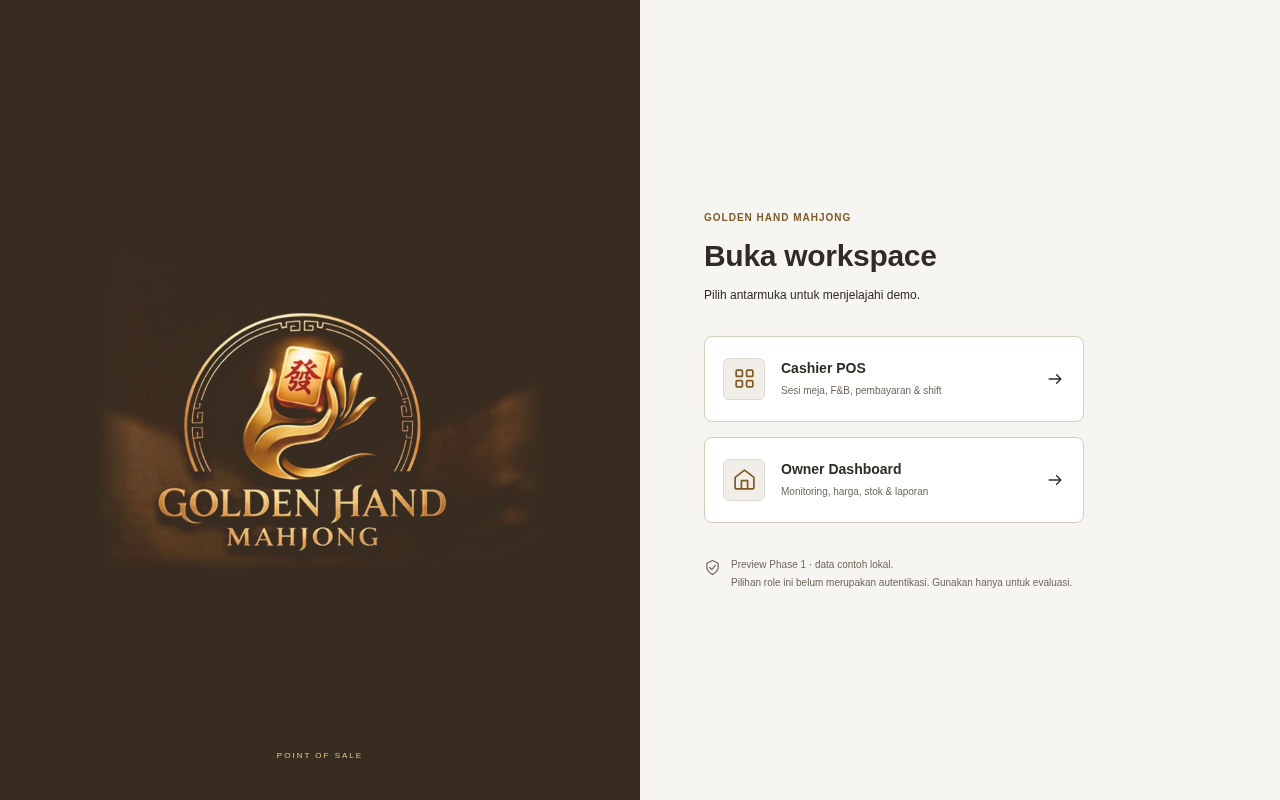
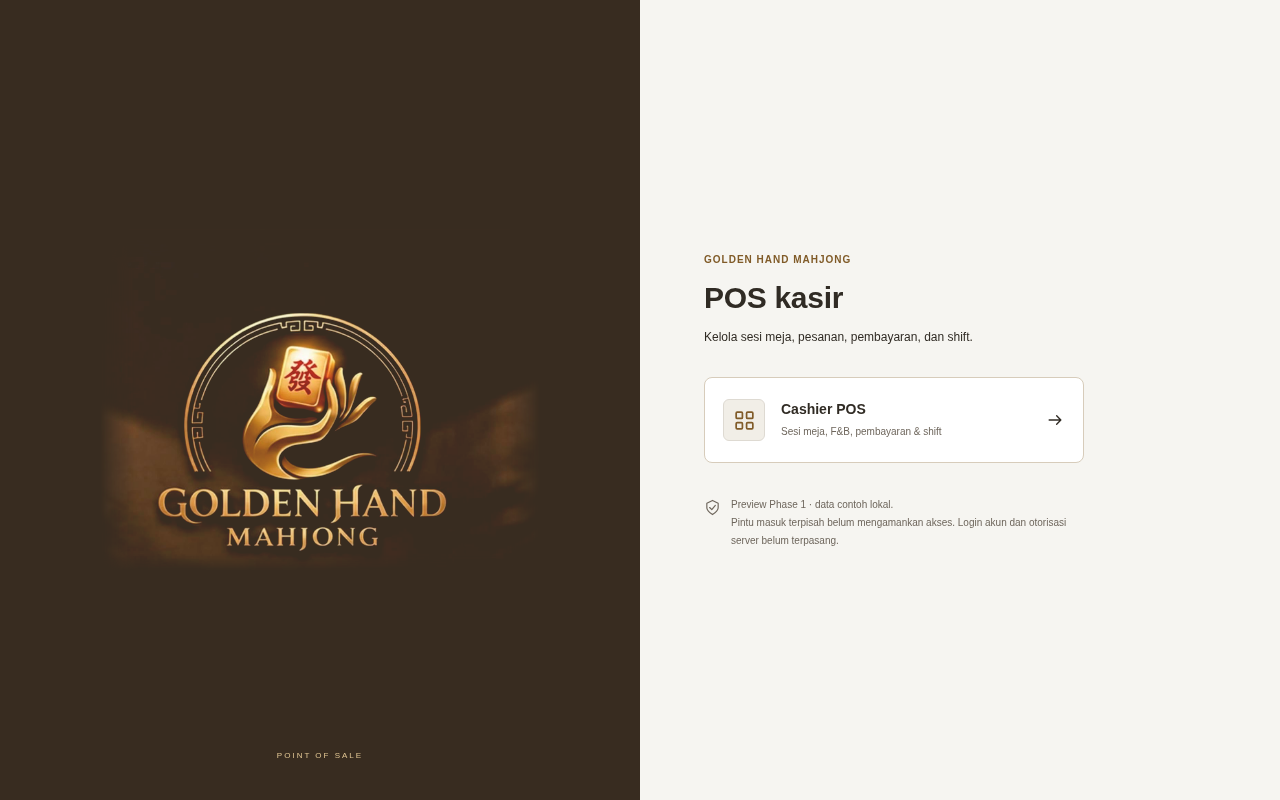
Separate cashier and owner demo entry points
Use /pos for the cashier tablet and /admin for owner pricing, inventory and reports. Remove role switching and cashier reset controls. Scope demo sessions and logout to each portal, without granting roles from URL/history navigation.

Verify owner price updates in the separate cashier menu. Update documentation and previews; build, lint, 27 domain tests and 24 browser checks pass. Real authentication and cross-device synchronization remain Phase 2 work.

Changed region(s): [[0.5312, 0.3125, 0.8438, 0.75], [0.5625, 0.25, 0.6562, 0.2812]]

diff --git a/apps/web/src/App.tsx b/apps/web/src/App.tsx
@@ -3,6 +3,7 @@ import type { ReactNode } from 'react';
 import { date, openShift, time } from '../../../packages/domain/index.ts';
 import type { Action, Role } from '../../../packages/domain/index.ts';
 import { downloadData, useDemoStore } from './data/store.ts';
+import { enterDemoPortal, leaveDemoPortal, portalFromPath, portalPaths, readDemoRole } from './data/demoAccess.ts';
 import { Brand, Empty, Icon } from './components/ui.tsx';
 import { Dialogs } from './components/dialogs.tsx';
 import type { Dialog } from './components/dialogs.tsx';
@@ -10,17 +11,11 @@ import { Cashier } from './features/cashier/Cashier.tsx';
 import { Owner } from './features/owner/Owner.tsx';
 const cashierNav = [{ id: 'tables', label: 'Meja & sesi', icon: 'tables' }, { id: 'menu', label: 'Food & beverage', icon: 'coffee' }, { id: 'transactions', label: 'Transaksi & shift', icon: 'receipt' }];
 const ownerNav = [{ id: 'overview', label: 'Overview', icon: 'overview' }, { id: 'tables', label: 'Monitoring meja', icon: 'tables' }, { id: 'reports', label: 'Laporan penjualan', icon: 'chart' }, { id: 'catalog', label: 'Katalog & stok', icon: 'inventory' }, { id: 'pricing', label: 'Tarif meja', icon: 'wallet' }, { id: 'approvals', label: 'Refund & void', icon: 'shield' }, { id: 'staff', label: 'Staf & shift', icon: 'staff' }, { id: 'audit', label: 'Audit trail', icon: 'history' }];
-function storedRole(): Role | null { try {
-    const v = sessionStorage.getItem('golden-hand-demo-role');
-    return v === 'cashier' || v === 'owner' ? v : null;
-}
-catch {
-    return null;
-} }
 export default function App() {
     const store = useDemoStore();
-    const [role, setRole] = useState<Role | null>(storedRole);
-    const [view, setView] = useState(storedRole() === 'owner' ? 'overview' : 'tables');
+    const [portal, setPortal] = useState<Role>(() => portalFromPath(window.location.pathname));
+    const [role, setRole] = useState<Role | null>(() => readDemoRole(portalFromPath(window.location.pathname)));
+    const [view, setView] = useState(portalFromPath(window.location.pathname) === 'owner' ? 'overview' : 'tables');
     const [selected, setSelected] = useState(1);
     const [dialog, setDialog] = useState<Dialog | null>(null);
     const [now, setNow] = useState(Date.now());
@@ -40,40 +35,40 @@ export default function App() {
     useEffect(() => { if (!toast)
         return; const timeout = setTimeout(() => setToast(null), 5000); return () => clearTimeout(timeout); }, [toast]);
     useEffect(() => {
+        const initial = portalFromPath(window.location.pathname);
+        window.history.replaceState({}, '', portalPaths[initial]);
         const pop = () => {
-            const next: Role | null = window.location.pathname === '/admin' ? 'owner' : window.location.pathname === '/pos' ? 'cashier' : null;
-            try {
-                if (next)
-                    sessionStorage.setItem('golden-hand-demo-role', next);
-                else
-                    sessionStorage.removeItem('golden-hand-demo-role');
-            }
-            catch { /* Demo can still run without session persistence. */ }
-            setRole(next);
+            const next = portalFromPath(window.location.pathname);
+            window.history.replaceState({}, '', portalPaths[next]);
+            setPortal(next);
+            setRole(readDemoRole(next));
             setView(next === 'owner' ? 'overview' : 'tables');
             setDialog(null);
+            setNavOpen(false);
+            setToast(null);
         };
         window.addEventListener('popstate', pop);
         return () => window.removeEventListener('popstate', pop);
     }, []);
-    function enter(next: Role) {
-        setRole(next);
-        setView(next === 'owner' ? 'overview' : 'tables');
+    function enter() {
+        setRole(portal);
+        setView(portal === 'owner' ? 'overview' : 'tables');
         setNavOpen(false);
         setDialog(null);
-        try {
-            sessionStorage.setItem('golden-hand-demo-role', next);
-        }
-        catch { /* Nonpersistent preview. */ }
-        window.history.pushState({}, '', next === 'owner' ? '/admin' : '/pos');
+        enterDemoPortal(portal);
+        window.history.replaceState({}, '', portalPaths[portal]);
         window.scrollTo({ top: 0 });
     }
-    function logout() { try {
-        sessionStorage.removeItem('golden-hand-demo-role');
+    function logout() {
+        leaveDemoPortal(portal);
+        setRole(null);
+        setDialog(null);
+        setNavOpen(false);
+        setToast(null);
+        window.scrollTo({ top: 0 });
     }
-    catch { /* Nonpersistent preview. */ } setRole(null); setDialog(null); window.history.pushState({}, '', '/'); }
-    function act(a: Action) { if (!role)
-        throw new Error('Pilih role demo terlebih dahulu.'); store.dispatch(a, role); setToast({ text: a.type === 'payment' && a.method === 'cash' ? `Tunai ${new Intl.NumberFormat('id-ID').format(a.amount)} dicatat · kembalian ${new Intl.NumberFormat('id-ID').format(a.tendered - a.amount)}` : 'Perubahan demo berhasil disimpan.', error: false }); }
+    function act(a: Action) { if (!role || role !== portal)
+        throw new Error('Buka demo sesuai pintu masuk terlebih dahulu.'); store.dispatch(a, role); setToast({ text: a.type === 'payment' && a.method === 'cash' ? `Tunai ${new Intl.NumberFormat('id-ID').format(a.amount)} dicatat · kembalian ${new Intl.NumberFormat('id-ID').format(a.tendered - a.amount)}` : 'Perubahan demo berhasil disimpan.', error: false }); }
     function safeAction(a: Action) { try {
         act(a);
     }
@@ -89,14 +84,14 @@ export default function App() {
         <div className="button-row">
         <button className="button" onClick={downloadData}>Ekspor data tersimpan</button>
         <button className="button primary" onClick={() => window.location.reload()}>Coba lagi</button>
-        <button className="button danger" onClick={() => { if (window.confirm('Hapus data demo browser ini dan buat ulang data contoh? Ekspor backup terlebih dahulu.')) {
+        {portal === 'owner' && <button className="button danger" onClick={() => { if (window.confirm('Hapus data demo browser ini dan buat ulang data contoh? Ekspor backup terlebih dahulu.')) {
             try {
                 store.reset();
             }
             catch (e) {
                 setToast({ text: e instanceof Error ? e.message : 'Penyimpanan tidak tersedia.', error: true });
             }
-        } }}>Reset data demo</button>
+        } }}>Reset data demo</button>}
         </div>
         </Empty>{toast && <p role="alert">{toast.text}</p>}</div>;
     if (!store.state)
@@ -115,32 +110,22 @@ export default function App() {
         <div className="login-panel">
         <div className="login-panel-copy">
         <span className="eyebrow">GOLDEN HAND MAHJONG</span>
-        <h2>Buka workspace</h2>
-        <p>Pilih antarmuka untuk menjelajahi demo.</p>
+        <h2>{portal === 'owner' ? 'Panel owner' : 'POS kasir'}</h2>
+        <p>{portal === 'owner' ? 'Kelola tarif meja, harga produk, stok, dan laporan.' : 'Kelola sesi meja, pesanan, pembayaran, dan shift.'}</p>
         </div>
-        <button className="login-role" onClick={() => enter('cashier')}>
+        <button className="login-role" onClick={enter} aria-labelledby="portal-name" aria-describedby="portal-description">
         <span className="role-icon">
-        <Icon name="tables" size={25}/>
+        <Icon name={portal === 'owner' ? 'overview' : 'tables'} size={25}/>
         </span>
         <span>
-        <strong>Cashier POS</strong>
-        <small>Sesi meja, F&B, pembayaran & shift</small>
-        </span>
-        <Icon name="arrow"/>
-        </button>
-        <button className="login-role" onClick={() => enter('owner')}>
-        <span className="role-icon">
-        <Icon name="overview" size={25}/>
-        </span>
-        <span>
-        <strong>Owner Dashboard</strong>
-        <small>Monitoring, harga, stok & laporan</small>
+        <strong id="portal-name">{portal === 'owner' ? 'Owner Dashboard' : 'Cashier POS'}</strong>
+        <small id="portal-description">{portal === 'owner' ? 'Monitoring, harga, stok & laporan' : 'Sesi meja, F&B, pembayaran & shift'}</small>
         </span>
         <Icon name="arrow"/>
         </button>
         <div className="login-demo-note">
         <Icon name="shield" size={17}/>
-        <p>Preview Phase 1 · data contoh lokal.<br />Pilihan role ini belum merupakan autentikasi. Gunakan hanya untuk evaluasi.</p>
+        <p>Preview Phase 1 · data contoh lokal.<br />Pintu masuk terpisah belum mengamankan akses. Login akun dan otorisasi server belum terpasang.</p>
         </div>
         </div>
         </div>;
@@ -166,11 +151,8 @@ export default function App() {
     <strong>Demo workspace</strong>
     <small>Data lokal · Phase 1</small>
     </div>
-    <button className="sidebar-tool" onClick={() => enter(role === 'owner' ? 'cashier' : 'owner')}>
-    <Icon name={role === 'owner' ? 'tables' : 'crown'} size={16}/>{role === 'owner' ? 'Buka demo kasir' : 'Buka demo owner'}<Icon name="arrow" size={14}/>
-    </button>
-    <button className="sidebar-tool" onClick={() => setDialog({ kind: 'reset' })}>
-    <Icon name="history" size={16}/>Reset demo</button>
+    {role === 'owner' && <button className="sidebar-tool" onClick={() => setDialog({ kind: 'reset' })}>
+    <Icon name="history" size={16}/>Reset demo</button>}
     <div className="profile">
     <span className="profile-avatar">{role === 'owner' ? 'GH' : 'RP'}</span>
     <div>
@@ -208,7 +190,7 @@ export default function App() {
     <span>GOLDEN HAND MAHJONG</span>
     <span>Phase 1 preview · penyimpanan lokal</span>
     </footer>
-    </div>{dialog && <Dialogs key={`${dialog.kind}-${dialog.tableId}-${dialog.productId}-${dialog.staffId}`} dialog={dialog} state={state} now={now} onClose={() => setDialog(null)} onAction={act} onReset={() => { store.reset(); setToast({ text: 'Data contoh dipulihkan.', error: false }); }}/>} {toast && <div className={`toast ${toast.error ? 'error' : ''}`} role={toast.error ? 'alert' : 'status'}>
+    </div>{dialog && <Dialogs key={`${dialog.kind}-${dialog.tableId}-${dialog.productId}-${dialog.staffId}`} dialog={dialog} state={state} now={now} onClose={() => setDialog(null)} onAction={act} onReset={() => { if (role !== 'owner') throw new Error('Reset demo hanya tersedia untuk owner.'); store.reset(); setToast({ text: 'Data contoh dipulihkan.', error: false }); }}/>} {toast && <div className={`toast ${toast.error ? 'error' : ''}`} role={toast.error ? 'alert' : 'status'}>
         <Icon name={toast.error ? 'alert' : 'check'}/>
         <span>{toast.text}</span>
         <button aria-label="Tutup pesan" className="icon-button" onClick={() => setToast(null)}>

diff --git a/apps/web/src/data/demoAccess.ts b/apps/web/src/data/demoAccess.ts
@@ -1,0 +1,32 @@
+import type { Role } from '../../../../packages/domain/index.ts';
+
+// Separate demo entry points. These helpers do not authenticate a real staff member.
+export const portalPaths: Record<Role, string> = { cashier: '/pos', owner: '/admin' };
+
+export function portalFromPath(path: string): Role {
+    return path.replace(/\/$/, '') === portalPaths.owner ? 'owner' : 'cashier';
+}
+
+function sessionKey(portal: Role): string {
+    return `golden-hand-demo-role-${portal}`;
+}
+
+export function readDemoRole(portal: Role): Role | null {
+    try {
+        return sessionStorage.getItem(sessionKey(portal)) === portal ? portal : null;
+    } catch {
+        return null;
+    }
+}
+
+export function enterDemoPortal(portal: Role): void {
+    try {
+        sessionStorage.setItem(sessionKey(portal), portal);
+    } catch { /* Allow a nonpersistent demo when session storage is unavailable. */ }
+}
+
+export function leaveDemoPortal(portal: Role): void {
+    try {
+        sessionStorage.removeItem(sessionKey(portal));
+    } catch { /* The visible session still ends if session storage is unavailable. */ }
+}

diff --git a/apps/web/public/sw.js b/apps/web/public/sw.js
@@ -1,5 +1,5 @@
 // Cache only the static shell. Demo transactions live in localStorage, never in this cache.
-const CACHE = 'golden-hand-shell-v2';
+const CACHE = 'golden-hand-shell-v3';
 const SHELL = ['/', '/brand/golden-hand-original.jpg', '/manifest.webmanifest'];
 self.addEventListener('install', event => {
   event.waitUntil((async () => {

diff --git a/README.md b/README.md
@@ -2,7 +2,7 @@
 
 Phase 1 frontend for a five-table Mahjong lounge. React + TypeScript, light surfaces and restrained bronze accents, responsive cashier and owner interfaces, and the supplied original brand image.
 
-**Status: working frontend DEMO, not a production POS.** Data lives in this browser's localStorage. Role selection is a preview feature, not authentication. Do not use real customer data or transactions. No backend, payment gateway, production credentials, or deployment is configured.
+**Status: working frontend DEMO, not a production POS.** Data lives in this browser's localStorage. Separate entry confirmations are preview features, not authentication. Do not use real customer data or transactions. No backend, payment gateway, production credentials, or deployment is configured.
 
 Development repository: **[Ndoaivi/golden-hand-pos](https://github.com/Ndoaivi/golden-hand-pos)**. The original [Ndoaivi/mahjong-pos](https://github.com/Ndoaivi/mahjong-pos) is strictly read-only.
 
@@ -15,7 +15,7 @@ npm ci
 npm run dev
 ```
 
-Open the displayed local URL and select **Cashier POS** or **Owner Dashboard**. `/pos` and `/admin` are frontend routes; they do not provide authorization. A fresh tab shows the demo role chooser. The preview switch in the sidebar makes role testing convenient.
+Open **`/pos`** on the cashier tablet (the root URL defaults here), or **`/admin`** on the owner device. Each entry shows only its corresponding demo confirmation. There is no owner switch in the cashier UI and no cashier switch in the owner UI. Logout stays at that portal; per-portal demo sessions cannot authorize the other entry, including browser history navigation. These are frontend routes and do not provide real authorization. Anyone can manually visit the owner URL until production authentication is implemented.
 
 ```sh
 npm run build
@@ -37,7 +37,9 @@ The build is written to `apps/web/dist`. The service worker is enabled only in t
 
 QRIS/transfer buttons are clearly labelled **demo**. They do not initiate payments, display a real QR, contact a gateway, or verify a bank transaction. Approval decisions change demo status only, without ledger or inventory reversal. Staff profiles do not create Supabase users or grant real access.
 
-Cashier screens contain no price, HPP, rate, inventory-adjustment, staff, or business-setting editors. Shared demo action rules also reject cashier configuration edits. These browser checks are not a substitute for server-enforced RBAC.
+Owner adjusts the shared table rate under **Tarif meja**, and each product selling price/HPP under **Katalog & stok → Edit harga**. Changes apply to new sessions/orders; existing charge snapshots remain unchanged.
+
+Cashier screens contain no price, HPP, rate, inventory-adjustment, staff, reset, or business-setting editors. Shared demo action rules also reject cashier configuration edits. These browser checks are not a substitute for server-enforced RBAC.
 
 ## Structure
 
@@ -49,7 +51,7 @@ apps/
     src/components/               Brand, controls, focus-managed dialogs
     src/features/cashier/         Cashier POS
     src/features/owner/           Owner dashboard
-    src/data/                     Demo persistence / cross-tab updates
+    src/data/                     Demo persistence, portal sessions / cross-tab updates
     src/styles.css                Light responsive design system
   api/README.md                   Reserved Cloudflare Workers boundary
 packages/domain/                 Typed shared rules, fixtures and validators
@@ -72,10 +74,10 @@ npm run test:e2e
 
 The browser suite serves the built files on a temporary localhost port, launches Chromium, tests the main workflows and viewport sizes, then closes the server. It does not deploy anything. By default it uses `/usr/bin/chromium`; set `PLAYWRIGHT_CHROMIUM_PATH` to a locally installed Chromium if needed. Browser tests require local socket/process permissions.
 
-Validation results and exact coverage are in [docs/TESTING.md](docs/TESTING.md). Screenshots: [cashier tablet](docs/previews/cashier-tablet.png), [owner desktop](docs/previews/owner-desktop.png), [owner mobile](docs/previews/owner-mobile.png), [login](docs/previews/login.png), [80 mm receipt](docs/previews/receipt-80mm.png).
+Validation results and exact coverage are in [docs/TESTING.md](docs/TESTING.md). Screenshots: [cashier tablet](docs/previews/cashier-tablet.png), [owner desktop](docs/previews/owner-desktop.png), [owner mobile](docs/previews/owner-mobile.png), [cashier entry](docs/previews/login.png), [owner entry](docs/previews/owner-login.png), [80 mm receipt](docs/previews/receipt-80mm.png).
 
 ## Handover and next phase
 
-Read [implementation notes](docs/IMPLEMENTATION.md), [BCA EDC integration options](docs/EDC_BCA.md), and [production roadmap](docs/PRODUCTION_ROADMAP.md). Resetting the demo deletes local transactions; use the JSON backup export first. The previous Golden Hand demo dataset upgrades automatically to five Standard tables. Its exact JSON is backed up under the existing storage key plus `-before-standard`; financial snapshots, pending quotes, and outstanding balances are preserved. Historical bill labels may retain the old class name, without keeping a VIP table or rate setting. The original reference prototypes used separate datasets and remain unchanged.
+Read [implementation notes](docs/IMPLEMENTATION.md), [BCA EDC integration options](docs/EDC_BCA.md), and [production roadmap](docs/PRODUCTION_ROADMAP.md). Resetting the demo is available only in the owner interface and deletes local transactions; use the JSON backup export first. The previous Golden Hand demo dataset upgrades automatically to five Standard tables. Its exact JSON is backed up under the existing storage key plus `-before-standard`; financial snapshots, pending quotes, and outstanding balances are preserved. Historical bill labels may retain the old class name, without keeping a VIP table or rate setting. The original reference prototypes used separate datasets and remain unchanged.
 
 **Phase 1 ends here. Backend and payment integration require owner approval. No production deployment is authorized.**

diff --git a/docs/IMPLEMENTATION.md b/docs/IMPLEMENTATION.md
@@ -26,7 +26,7 @@ Current state schema version 2 contains five Standard tables and only `rates.Sta
 
 Existing version 1 Golden Hand data is validated before migration. The store saves the exact old JSON to `golden-hand-pos-phase1-v1-before-standard` before persisting the upgrade under the existing key. Migration changes current table classifications and rate configuration, increments the revision, and adds an audit entry. It preserves active-session rates, charge labels/amounts, product/HPP snapshots, payments, unpaid balances, pending quotes, completed records, shifts and staff. Legacy charge text can still mention the former class because historical bills are not rewritten. Migration is idempotent. Invalid data or a failed storage write opens the existing recovery screen instead of resetting financial data. The previous prototype HTML files remain untouched.
 
-The service worker cache version is bumped to v2 so an updated shell can replace the dark version. Close old demo tabs before upgrading; localStorage still has the concurrency limitations described above.
+The service worker cache version is bumped to v3 so an updated shell can replace the dark version. Close old demo tabs before upgrading; localStorage still has the concurrency limitations described above.
 
 ## Reports and shift definitions
 
@@ -53,7 +53,11 @@ The production build registers a service worker on localhost/HTTPS. Installation
 
 ## Security boundary
 
-Demo roles hide incompatible screens and shared action checks prevent accidental cashier configuration changes. Anyone controlling the browser can edit storage/code or select the owner demo. Staff editing manages local profile records only. There are no passwords, auth sessions, access tokens, or server RBAC policies.
+Cashier and owner enter through separate `/pos` and `/admin` pages; the root defaults to the cashier entry. Each page has one portal-specific demo confirmation and no role switch. Portal-specific sessionStorage keys replace the previous shared role key, which is ignored. Changing a URL or using Back/Forward only restores that portal's existing demo confirmation; it never grants the new role based on the URL. Logout clears the current portal and keeps its entry URL. Cashier screens have no global reset; owner retains the demo reset/recovery workflow.
+
+Owner adjusts the one shared rental rate and product selling price/HPP in existing editor dialogs. Cross-tab data still shares one local store so the cashier menu reflects owner pricing without gaining editors. Active-session rental rates and previous order snapshots remain unchanged.
+
+Demo roles hide incompatible screens and shared action checks prevent accidental cashier configuration changes. Anyone controlling the browser can edit storage/code or manually visit the owner demo URL. Staff editing manages local profile records only. There are no passwords, authenticated sessions, access tokens, or server RBAC policies. Separate routes and demo confirmations must not be described as protected access. Production must verify the signed-in staff role on every API operation, deny cashier access to owner settings, and authenticate realtime subscriptions. Install the tablet PWA from the cashier entry when the production PWA entry policy is finalized; the current manifest still starts at the root/cashier entry.
 
 Approval decisions update a local request status and audit entry only. They do not issue refunds, reverse a charge, restore stock, or reconcile an EDC/gateway. Production audit must be append-only in a protected backend, with full transactional reversals.
 

diff --git a/docs/TESTING.md b/docs/TESTING.md
@@ -1,4 +1,4 @@
-# Phase 1 validation — 11 October 2026 (Asia/Jakarta)
+# Phase 1 validation — 12 October 2026 (Asia/Jakarta)
 
 ## Automated results
 
@@ -7,7 +7,7 @@
 | `npm run build` | PASS — strict TypeScript and Vite bundle |
 | `npm run lint` | PASS — no ESLint errors/warnings |
 | `npm test` | PASS — 27 domain tests |
-| `npm run test:e2e` | PASS — 20 browser checks, 0 uncaught page errors |
+| `npm run test:e2e` | PASS — 24 browser checks, 0 uncaught page errors |
 
 Production bundle: approximately 275 kB JavaScript (83 kB gzip), 44 kB CSS (9 kB gzip), plus the 69 kB original JPEG. No remote runtime fonts, images, payment SDKs, or charts are loaded.
 
@@ -17,7 +17,7 @@ Exactly five Standard slots and one shared rate; rejection of alternate classifi
 
 ## Browser coverage
 
-Original logo in integrated brand areas; light theme; five Standard table cashier UI; single owner rental setting; exact legacy backup and one-time migration; cashier editor restrictions; tablet layout with visible checkout/payment actions in both landscape sizes; expired cutoff/F&B lock and extend; postpaid start and Escape cancellation; F&B stock deduction; partial cash plus simulated settlement; paid receipt/logo/print CSS; checkout/cleaning/ready; shared owner table monitoring; cross-tab owner rate sync and unchanged session snapshot; owner prices/HPP/restock; approval demo; staff profile demo; empty dated reports; CSV export; mobile/portrait tablet overflow checks; reload persistence; production offline shell reload; corrupt localStorage recovery.
+Original logo in integrated brand areas; light theme; five Standard table cashier UI; single owner rental setting; exact legacy backup and one-time migration; cashier editor/reset restrictions; portal-specific entry/logout/reload; URL and Back/Forward navigation do not grant the opposite demo role; legacy shared owner role ignored on tablet entry; owner-adjusted product price appears in the separate cashier menu; tablet layout with visible checkout/payment actions in both landscape sizes; expired cutoff/F&B lock and extend; postpaid start and Escape cancellation; F&B stock deduction; partial cash plus simulated settlement; paid receipt/logo/print CSS; checkout/cleaning/ready; shared owner table monitoring; cross-tab owner rate sync and unchanged session snapshot; owner prices/HPP/restock; approval demo; staff profile demo; empty dated reports; CSV export; mobile/portrait tablet overflow checks; reload persistence; production offline shell reload; corrupt localStorage recovery.
 
 Chromium ran in headless touch-emulation mode. Screenshots are stored in `docs/previews`. Layout widths checked: 1280×800, 1024×768, 390×844 and 768×1024. The suite creates and closes a temporary localhost server, and never deploys.
 

diff --git a/docs/PRODUCTION_ROADMAP.md b/docs/PRODUCTION_ROADMAP.md
@@ -1,7 +1,7 @@
 # Work remaining after Phase 1 approval
 
 1. Confirm operational policy: the actual shared rate for five Standard tables, grace period, allowed extensions, postpaid limits, taxes/service fees, cancellation rules, staff permissions, and refund/void limits.
-2. Implement Supabase Auth and server-enforced venue/staff RBAC. Restrict database privileges/RLS, remove the demo role chooser and browser settlement controls, add login/session expiry/device logout.
+2. Implement Supabase Auth and server-enforced venue/staff RBAC. Restrict database privileges/RLS, replace the separate `/pos` and `/admin` demo confirmations with staff login, validate each role on every server operation, and remove browser settlement controls, add login/session expiry/device logout.
 3. Build the Cloudflare Workers API and PostgreSQL migrations. Server timestamps, unique open session constraints, price/HPP snapshots, atomic stock/charge/payment operations, idempotency keys, row locks, protected audit and safe error responses are required.
 4. Replace browser data with one authoritative store, authenticated realtime or polling, recovery after device sleep/network loss, quote expiry, and robust conflict handling. Add monitoring, backups and restore rehearsal.
 5. Implement cash ledger and allocation, prepaid/postpaid/mixed reconciliation, shift carryover and cash differences, refund/void reversal entries, inventory movements and approval authorization.

diff --git a/AGENTS.md b/AGENTS.md
@@ -7,6 +7,7 @@
 - Keep exactly five Standard tables and one rental rate configuration. Preserve historical price/HPP snapshots and unpaid balances, including legacy demo migration.
 - Keep the interface light, functional and free of decorative marketing panels. Use the original logo within a continuous brand area.
 - Keep original logo proportions; do not replace or recreate the supplied logo.
-- The frontend's role chooser and local action restrictions are demo conveniences, not security boundaries. Never describe them as production RBAC.
+- Keep cashier `/pos` and owner `/admin` entry pages separate, without role-switch buttons. Owner edits rates/prices/HPP; cashier has no configuration or reset controls.
+- The frontend's portal confirmations and local action restrictions are demo conveniences, not security boundaries. Never describe them as production RBAC.
 - Keep UI, persistence, shared rules, future API, and future database concerns separate.
 - Before handover, run build, lint, domain tests and applicable browser tests. Record limitations truthfully.
